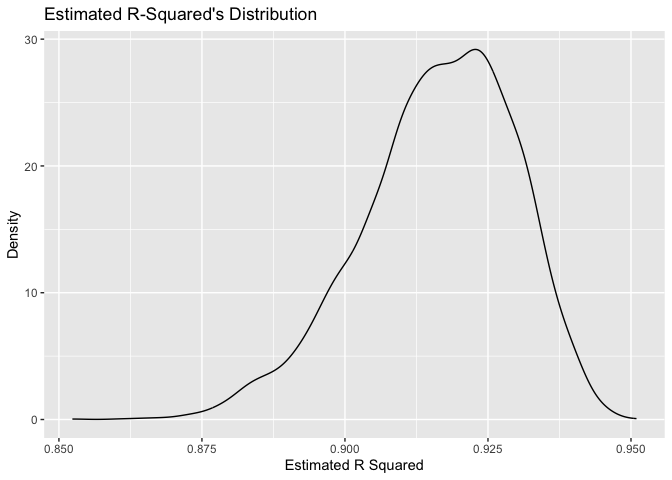
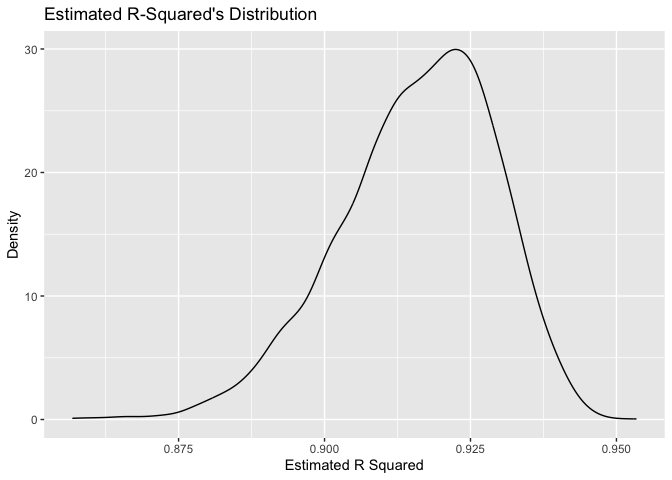
fix the problem2 beta data

diff --git a/p8105_hw6_zz3168.md b/p8105_hw6_zz3168.md
@@ -78,32 +78,47 @@ boost_sample_b =
     results = map(models, broom::tidy)
   ) |> 
   select(-strap, -models) |> 
-  unnest(results) |> 
+  unnest(results) |>
+  select(id = `.id`, term, estimate) |> 
   pivot_wider(
     names_from = term,
-    values_from = c(estimate, std.error, statistic, p.value)
+    values_from = estimate
   ) |> 
   janitor::clean_names() |> 
+  rename(beta0 = intercept, beta1 = tmin, beta2 = prcp) |> 
   mutate(
-    log_b1 = log(estimate_intercept * estimate_tmin),
-    log_b2 = log(estimate_tmin * estimate_prcp )
+    log_b1 = log(beta0 * beta1),
+    log_b2 = log(beta1 * beta2)
   )
 ```
 
     ## Warning: There was 1 warning in `mutate()`.
-    ## ℹ In argument: `log_b2 = log(estimate_tmin * estimate_prcp)`.
+    ## ℹ In argument: `log_b2 = log(beta1 * beta2)`.
     ## Caused by warning in `log()`:
     ## ! NaNs produced
 
 ``` r
-conf_beta = 
+conf_beta0 = 
   boost_sample_b |> 
   summarize(
     c_lower = quantile(log_b1, 0.025),
     c_upper = quantile(log_b1, 0.975)
   ) |> 
  knitr::kable() 
+
+
+conf_beta1 = 
+  boost_sample_b |> 
+  summarize(
+    c_lower = quantile(log_b2, 0.025,na.rm = TRUE),
+    c_upper = quantile(log_b2, 0.975,na.rm = TRUE)
+  ) |> 
+ knitr::kable() 
 ```
+
+According to the result, The 2.5% and 97.5% quantiles of of log(beta
+1\*beta 2) is -8.86 and -4.60. The 2.5% and 97.5% quantiles of R squard
+is 0.89 and 0.94.
 
 # do the r plot
 
@@ -134,9 +149,12 @@ boost_sample_b |>
   )
 ```
 
-    ## Warning: Removed 3412 rows containing non-finite values (`stat_density()`).
+    ## Warning: Removed 3331 rows containing non-finite values (`stat_density()`).
 
 ![](p8105_hw6_zz3168_files/figure-gfm/unnamed-chunk-6-1.png)<!-- -->
+According to the plot , we could see that the plot for R suqard is
+approximately normal, and the plot for log(beta 1\*beta 2) is skewed to
+the left.
 
 ### Problem 3
 
